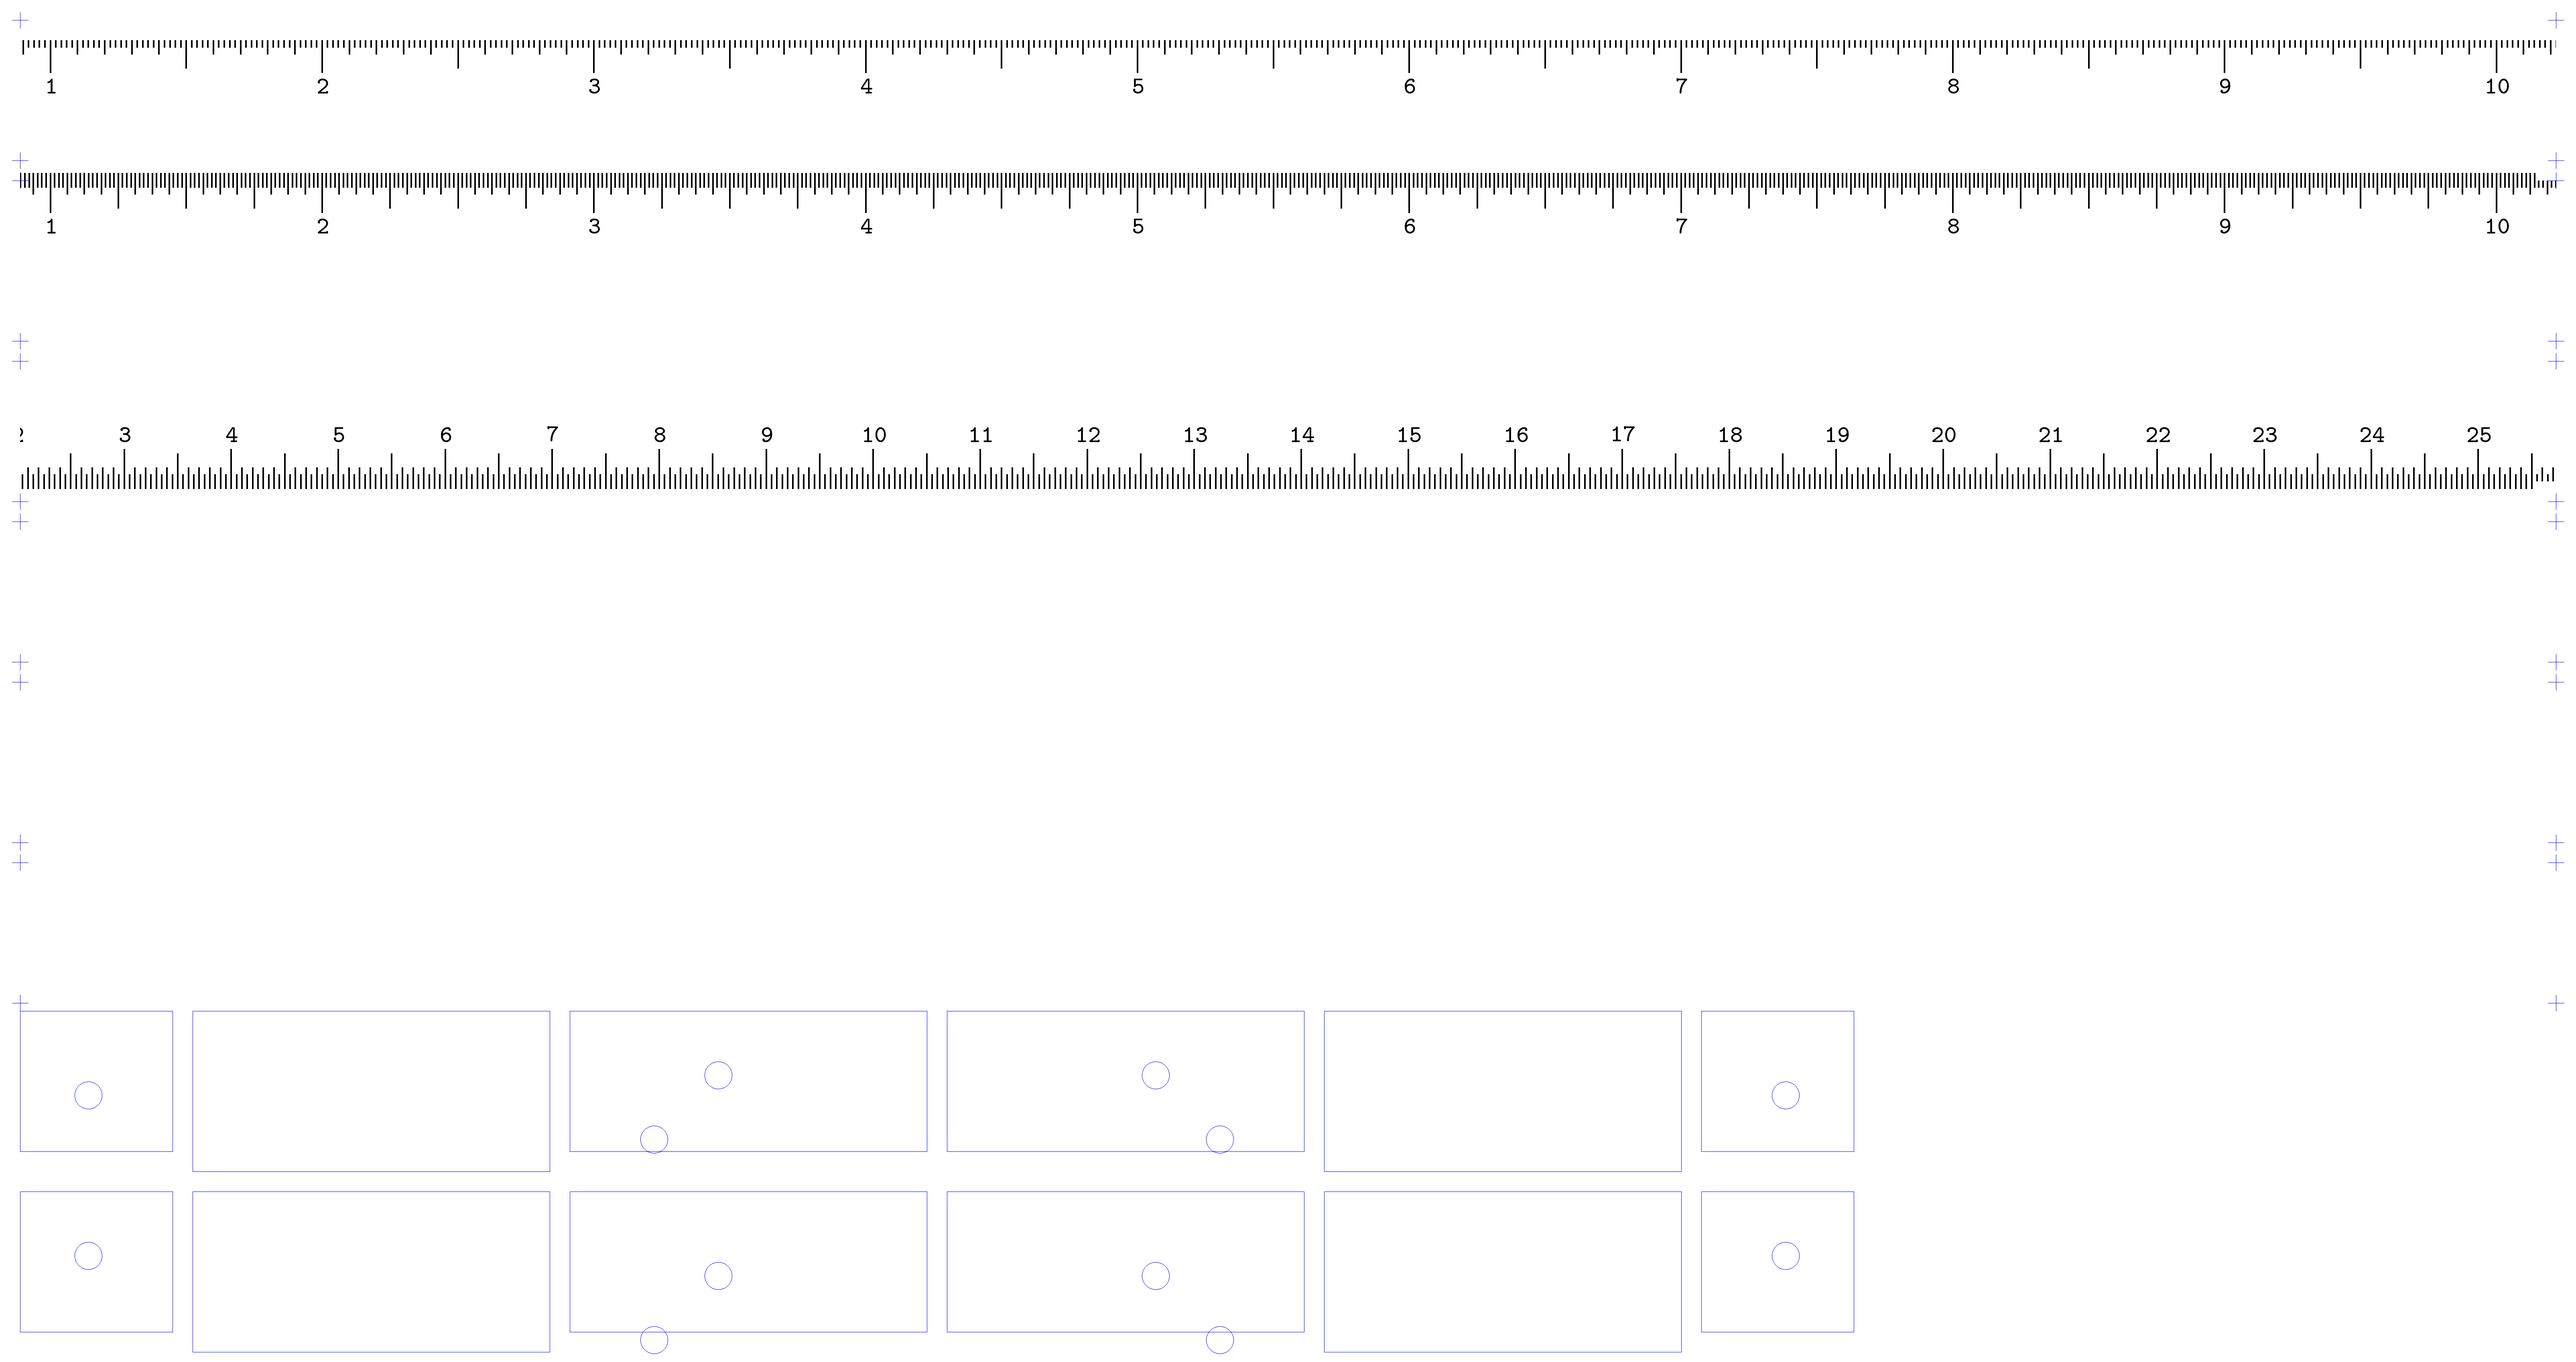
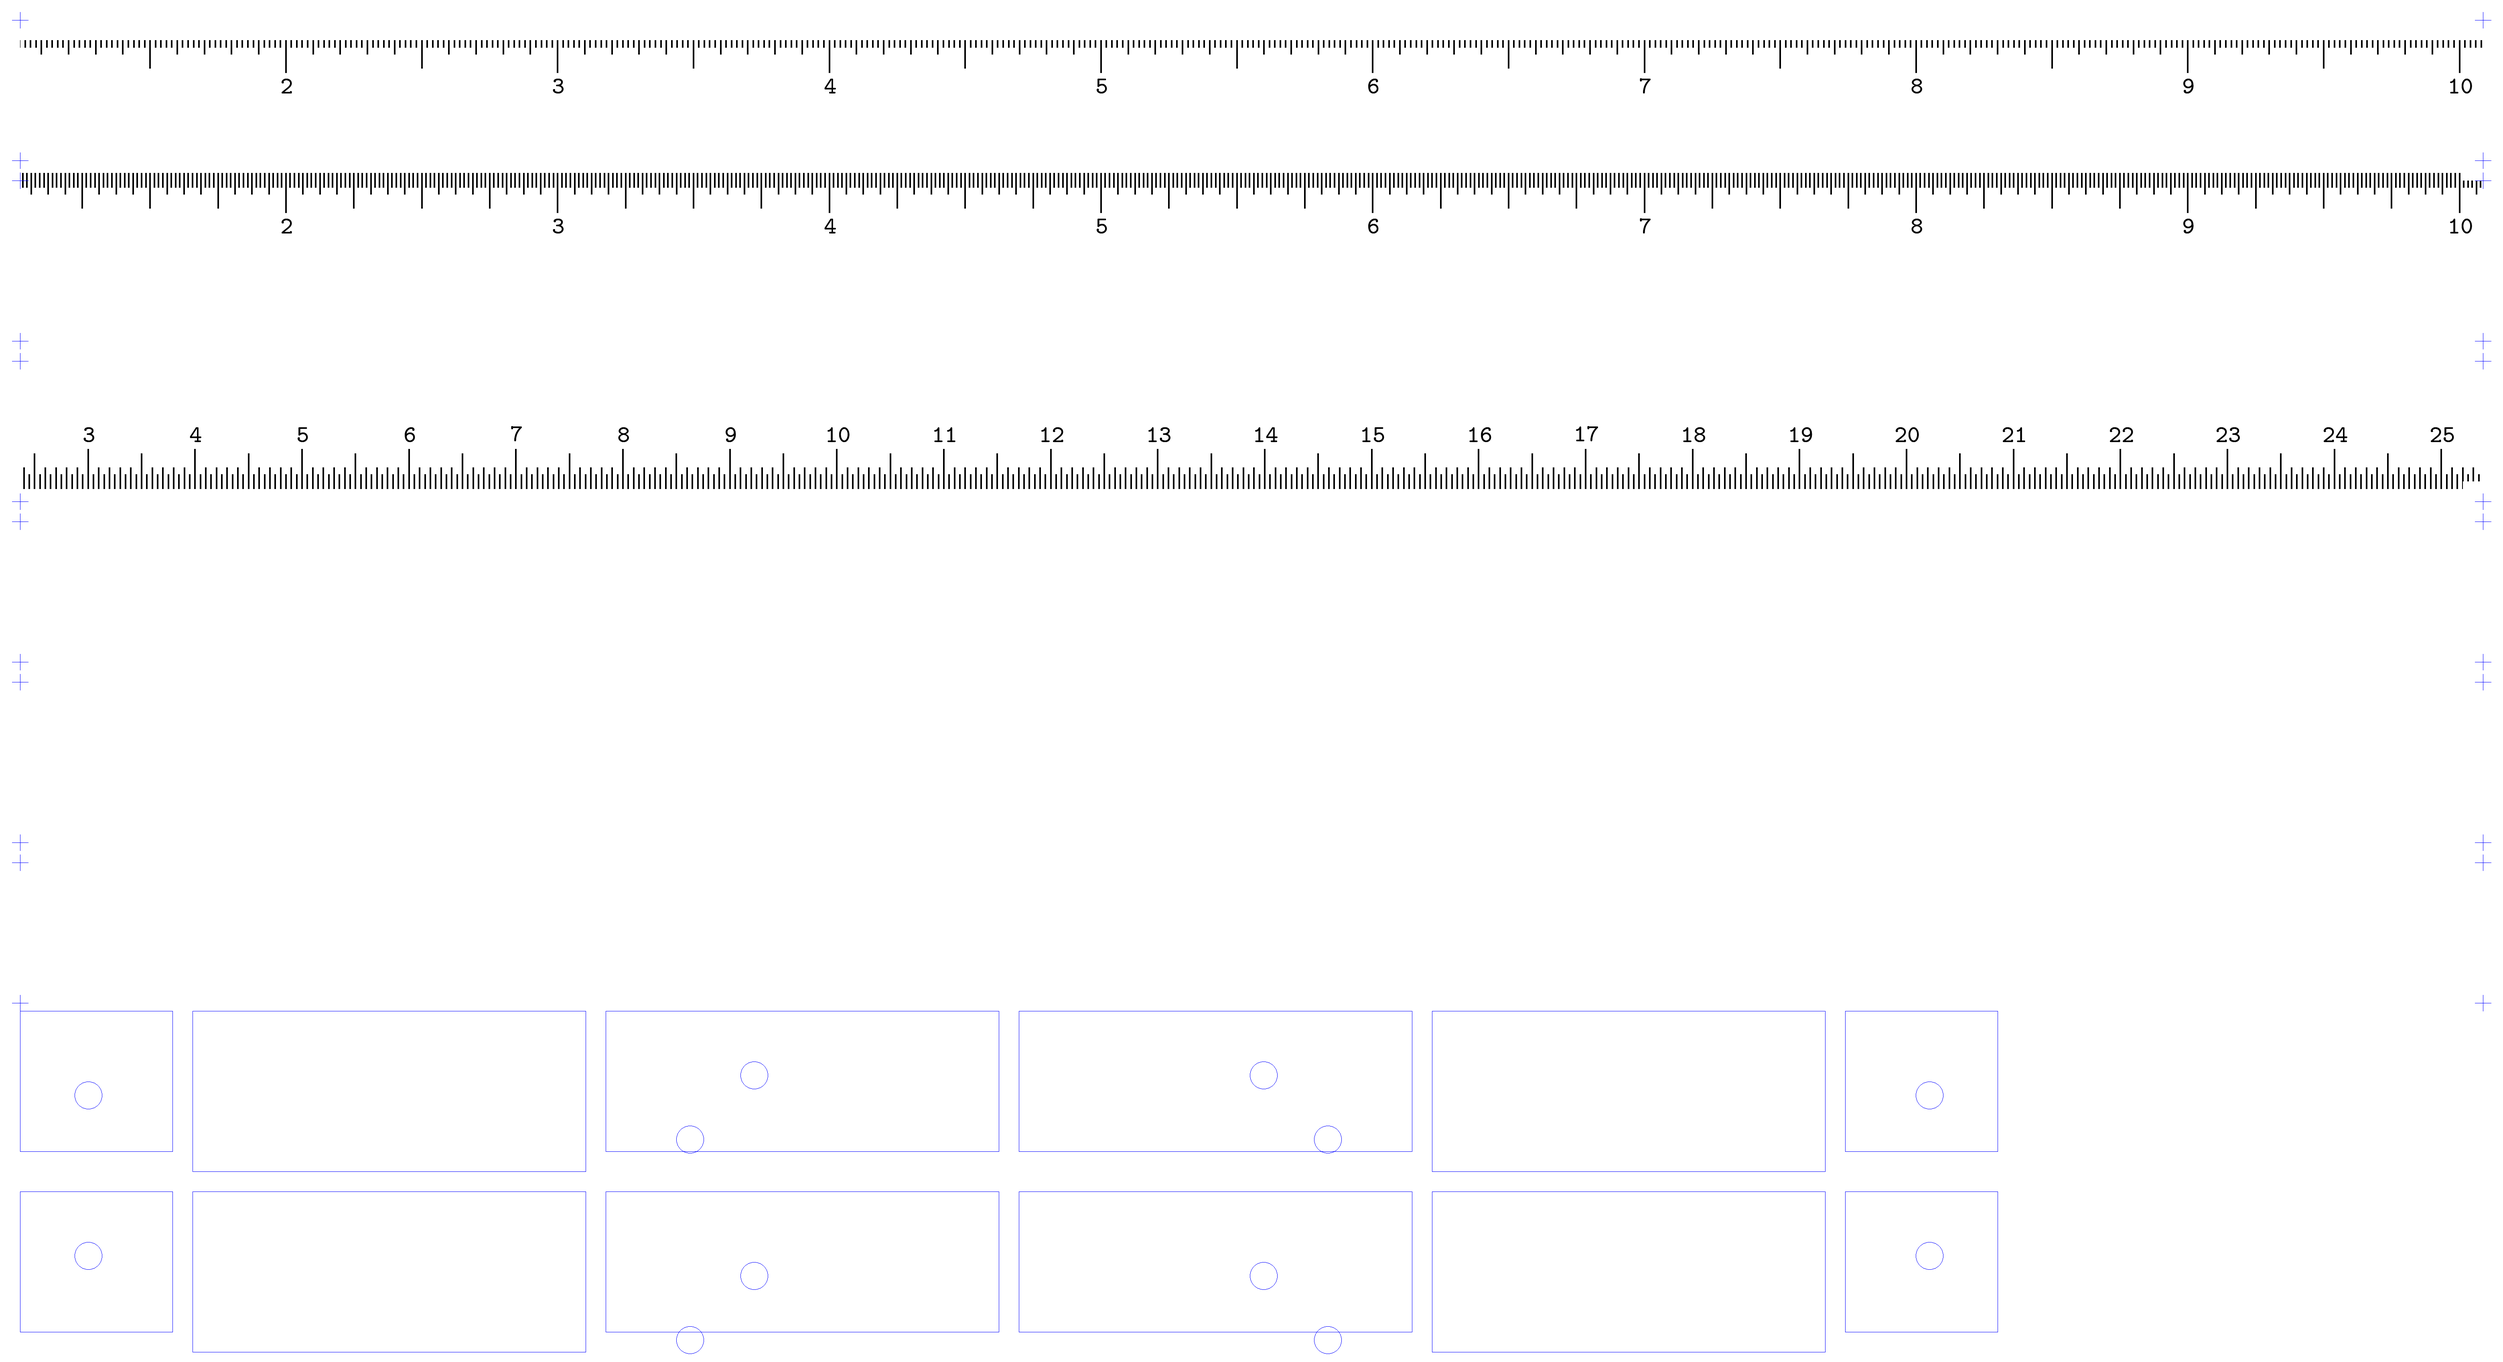
A simpler expression of stickerprint cutoff margin around the scales that still seems robust (unsure if better).

diff --git a/SlideRule.py b/SlideRule.py
@@ -1837,8 +1837,8 @@ def render_stickerprint_mode(m: Model, sliderule_img: Image.Image):
     o_a = 50  # overhang amount
     ext = 20  # extension amount
     geom = m.geometry
-    x_off = (geom.side_w - geom.SL - geom.brace_w - 420) // 2
-    scale_w = geom.side_w - x_off * 2
+    scale_x_margin = (geom.side_w - geom.SL) // 2 - geom.brace_w + 30
+    scale_w = geom.side_w - scale_x_margin * 2
     scale_h = geom.SH
     geom_s = replace(geom, side_w=scale_w, oX=0, oY=0)
     style = m.style
@@ -1858,7 +1858,7 @@ def render_stickerprint_mode(m: Model, sliderule_img: Image.Image):
                               (1, stator_h + 1 - (0 if front else 3), slide_h),
                               (2, geom.side_h - stator_h, stator_h)):
             y += o_a
-            transcribe(sliderule_img, dst_img, geom.oX + x_off, y_side + y_src, scale_w, h, o_x2, y)
+            transcribe(sliderule_img, dst_img, geom.oX + scale_x_margin, y_side + y_src, scale_w, h, o_x2, y)
             if i > 0:
                 extend(dst_img, scale_w, y + 1, BleedDir.UP, ext)
             extend(dst_img, scale_w, y + h - 1, BleedDir.DOWN, ext)
@@ -1870,18 +1870,18 @@ def render_stickerprint_mode(m: Model, sliderule_img: Image.Image):
     box_w = geom.brace_w + 30
     boxes = [
         (o_a,                     y_b, box_w + o_a, stator_h + o_a),
-        (box_w + 3 * o_a,         y_b, x_off + o_a, slide_h),
-        (box_w + 5 * o_a + x_off, y_b, x_off + o_a, stator_h + o_a)
+        (box_w + 3 * o_a,         y_b, scale_x_margin + o_a, slide_h),
+        (box_w + 5 * o_a + scale_x_margin, y_b, scale_x_margin + o_a, stator_h + o_a)
     ]
-    box_x_mirror = 13 * o_a // 2 + box_w + 2 * x_off
+    box_x_mirror = 13 * o_a // 2 + box_w + 2 * scale_x_margin
     for (x0, y0, dx, dy) in boxes:
         for x1 in (x0, 2 * box_x_mirror - x0 - dx):
             for y1 in (y0, y0 + slide_h + o_a):
                 r.draw_box(x1, y1, dx, dy, cut_col)
     p1 = [
         (2 * o_a + 120,                         y_b + o_a + scale_h),
-        (6 * o_a + box_w + x_off + scale_h,     y_b + 2 * scale_h),
-        (6 * o_a + box_w + x_off + 2 * scale_h, y_b + scale_h),
+        (6 * o_a + box_w + scale_x_margin + scale_h,     y_b + 2 * scale_h),
+        (6 * o_a + box_w + scale_x_margin + 2 * scale_h, y_b + scale_h),
     ]
     points = p1 + [(cx, cy + sticker_row_h + (o_a if i > 0 else -o_a))
                    for (i, (cx, cy)) in enumerate(p1)]
